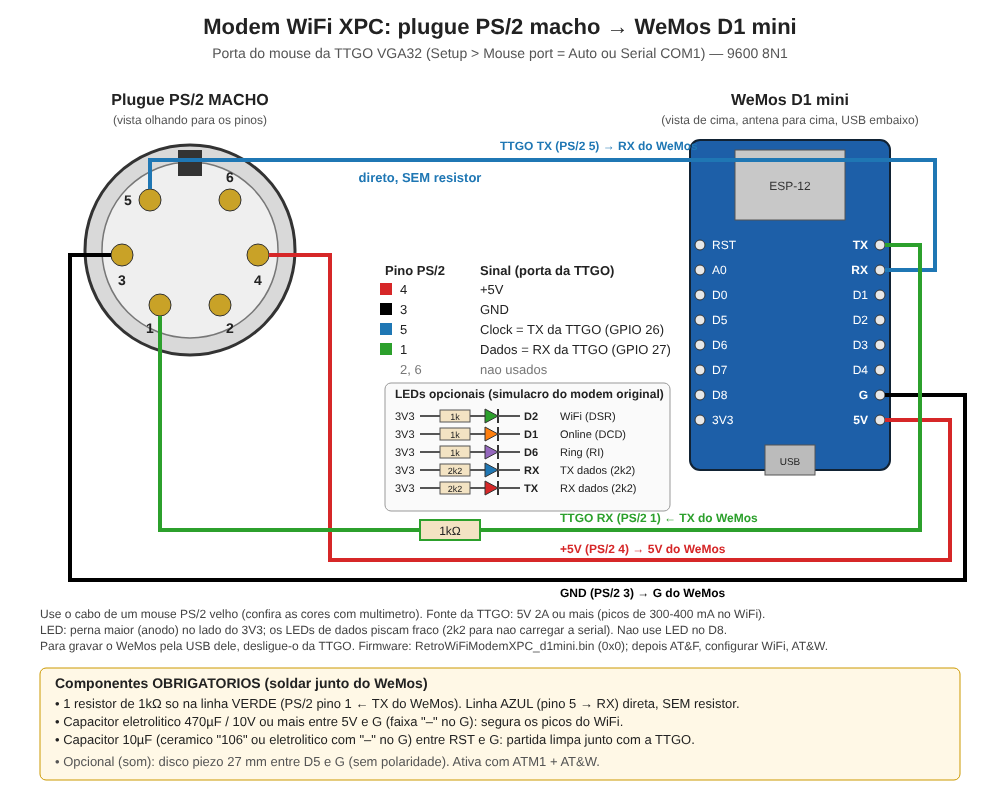
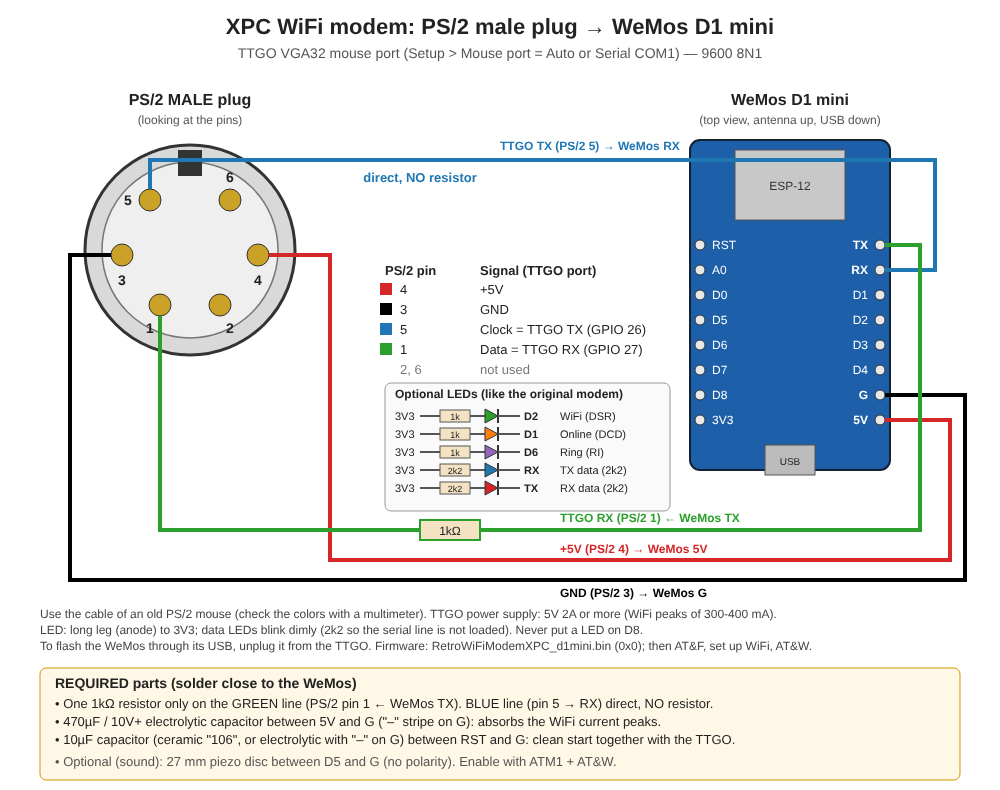
README: case photo, English wiring diagram, TPU strain relief, flashing steps

diff --git a/README.md b/README.md
@@ -2,6 +2,8 @@
 
 A **WeMos D1 mini** (ESP8266) wired to a PS/2 plug becomes a WiFi modem for the **[XPC ESP32](https://github.com/lgpf/xpc-esp32)** emulator. Plug it into the TTGO VGA32 **mouse port**, set *Mouse port* to `Serial COM1` (or `Auto`), and any DOS terminal — Telix, Procomm, Qmodem — can dial telnet BBSes with `ATDT host:port`.
 
+![XPC Mini Modem in its 3D-printed case](docs/minimodem_case.jpg)
+
 And it sounds right: before connecting, a small piezo plays the **Brazilian dial tone, the DTMF digits, the ring-back and a real modem handshake**. After `CONNECT`, silence.
 
 The firmware is a variant of **RetroWiFiModem** (ESP8266 RS232↔WiFi modem with Hayes AT commands), adapted to run without the MAX3232, the DFPlayer and the RS232 control lines.
@@ -22,9 +24,17 @@ The XPC is a complete PC/XT on a single board, and a PC/XT of the BBS era deserv
 | 1 electrolytic capacitor 470 µF / 10 V+ | between 5V and G — absorbs WiFi current peaks |
 | 1 capacitor 10 µF (ceramic "106" or electrolytic) | between RST and G — clean start together with the TTGO |
 | 1 piezo disc 27 mm (passive), optional | between D5 and G — dial/handshake sounds |
-| 3D-printed case | STL files in [`stl/`](stl) |
+| 3D-printed case | see the table below |
 
 All parts are through-hole.
+
+### 3D-printed case
+
+| File | Material | Notes |
+|---|---|---|
+| [`stl/xpc-minimodem-top.stl`](stl/xpc-minimodem-top.stl) | PLA | top with the sound grille (piezo glued by its brass rim) |
+| [`stl/xpc-minimodem-bottom.stl`](stl/xpc-minimodem-bottom.stl) | PLA | bottom |
+| [`stl/xpc-minimodem-cable-tpu.stl`](stl/xpc-minimodem-cable-tpu.stl) | **TPU** (flexible) | cable strain relief — fits the case cutout, locks the cable inside and leaves 1 cm of flexible boot outside to keep the cable from bending sharply |
 
 ### Wiring
 
@@ -50,6 +60,15 @@ Flash `bin/RetroWiFiModemXPC_d1mini.bin` at **0x0** through the WeMos USB port (
 esptool.py --chip esp8266 --port COM5 erase_flash
 esptool.py --chip esp8266 --port COM5 --baud 460800 write_flash -fm dio -fs 4MB 0x0 bin/RetroWiFiModemXPC_d1mini.bin
 ```
+
+**With Espressif's Flash Download Tool (Windows):**
+
+1. Run `flash_download_tool_x.x.x.exe`, choose **ChipType: ESP8266**, **WorkMode: Develop**, **LoadMode: UART**.
+2. In the first line, tick the box, pick `bin/RetroWiFiModemXPC_d1mini.bin` and type **0x0** in the address field (`@ 0x0`).
+3. **SPI SPEED: 40MHz**, **SPI MODE: DIO**, **FLASH SIZE: 32Mbit** (4 MB), leave *DoNotChgBin* ticked.
+4. Select the WeMos **COM** port (CH340) and **BAUD 460800**.
+5. Click **ERASE** and wait for *FINISH* (clears old WiFi settings).
+6. Click **START** and wait for *FINISH*. The WeMos D1 mini enters flash mode by itself; after *FINISH* press its RST button.
 
 Then, still on USB, with any serial terminal at **9600 8N1**:
 
